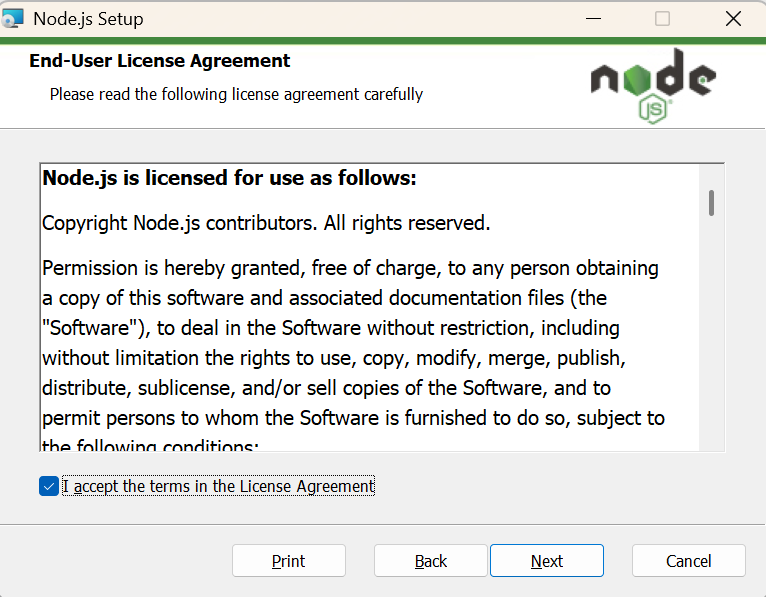
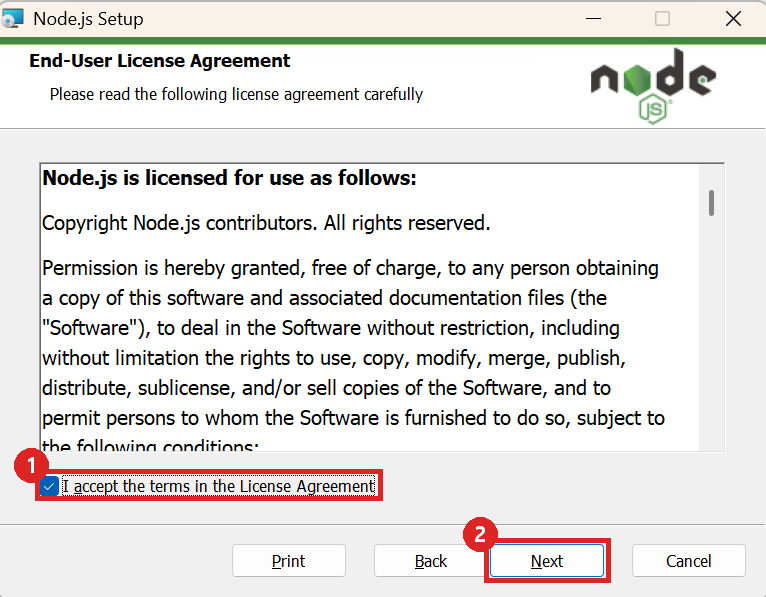
fix(ai-naeilbakkum): 설치 가이드 — 해시 링크(#mac-1) 즉시 반영 + Windows 스크린샷 8장 주석(테두리·번호)

Changed region(s): [[0.0, 0.7538, 0.5104, 0.8442], [0.6005, 0.8442, 0.8107, 0.995]]

diff --git a/src/components/projects/ai-naeilbakkum/SetupWizard.tsx b/src/components/projects/ai-naeilbakkum/SetupWizard.tsx
@@ -258,6 +258,19 @@ export default function SetupWizard({
     };
   }, []);
 
+  /* 같은 탭에서 해시만 바뀌어도(운영진이 보낸 #mac-1 링크 등) 그 단계로 이동 */
+  useEffect(() => {
+    const onHash = () => {
+      const fromHash = parseHash(window.location.hash);
+      if (!fromHash) return;
+      setPicking(false);
+      setOsOverride(fromHash.os);
+      setIndexOverride(fromHash.index);
+    };
+    window.addEventListener("hashchange", onHash);
+    return () => window.removeEventListener("hashchange", onHash);
+  }, []);
+
   /* 저장 */
   useEffect(() => {
     if (!ready) return;
